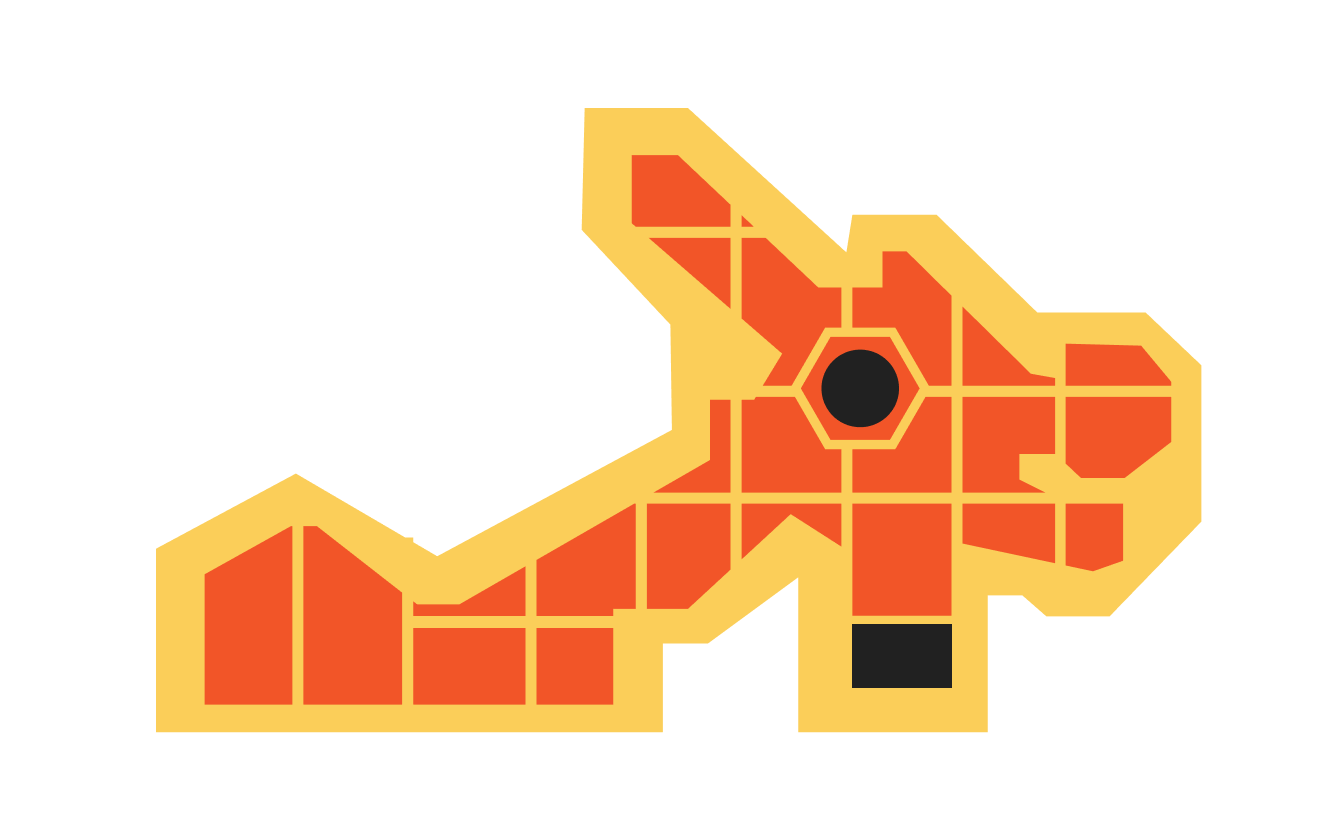
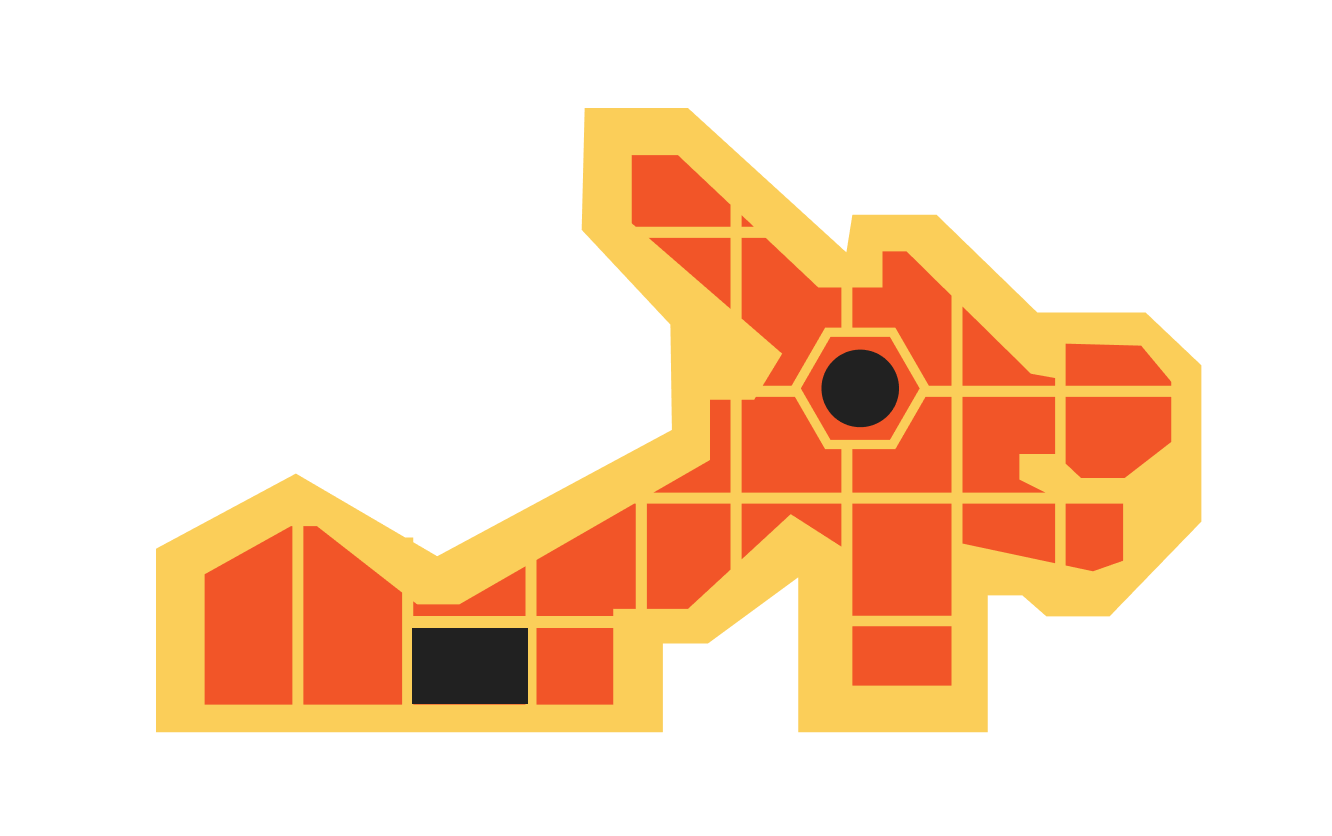
Update UI for ipad

Changed region(s): [[0.6156, 0.7464, 0.7387, 0.8397], [0.3078, 0.7464, 0.4002, 0.8397]]

diff --git a/js/index.js b/js/index.js
@@ -85,11 +85,11 @@ const differences = [
     {images: [
         {
             // DIFFERENCES 1
-            image1: {x: 160, y: 130, radius: 60}
+            image1: {x: 75, y: 130, radius: 60}
         },   
         {
             // DIFFERENCES 2
-            image1: {x: 150, y: 60, radius: 60}
+            image1: {x: 160, y: 60, radius: 60}
         }
         
         ],
@@ -99,7 +99,7 @@ const differences = [
     {images: [
         {
             // DIFFERENCES 1
-            image1: {x: 100, y: 140, radius: 60}
+            image1: {x: 220, y: 140, radius: 60}
         },   
         {
             // DIFFERENCES 2
@@ -215,6 +215,8 @@ function loadImage()
 
                 if(isIntersect(mousePos, tempo[differencesCount].images[i].image1) && differencePlayerFound[i] == "")
                 {
+                    console.log(mousePos)
+                    console.log(tempo[differencesCount].images[i].image1.x, tempo[differencesCount].images[i].image1.y)
                     console.log("correct!")
 
                     differencePlayerFound[i] = "found"

diff --git a/css/game.css b/css/game.css
@@ -68,7 +68,21 @@
 
 .original,
 #play_area{
-    width: 300px; 
-    height: 200px;
+    width: 70%;
 }
- 
+
+ /*ipad*/
+@media screen and (min-width:768px) and (max-width:1023px) {
+    .text{
+        font-size: 50px;
+        margin: 20px 0px;
+    }
+
+    .score-count, .question-count {
+        font-size: 60px;
+    }
+
+    .image {
+        width: 70%;
+    }
+}

diff --git a/css/layout.css b/css/layout.css
@@ -249,6 +249,10 @@ body {
         width: 35%;
     }
 
+    .preview{
+        width: 60%;
+    }
+
     .button {
         width: 55%;
     }
@@ -301,7 +305,7 @@ body {
     .instructionPage,
     .finalPage,
     .rotate{
-        width: 370px !important;
+        width: 300px !important;
     }
 
     /*StartPage*/
